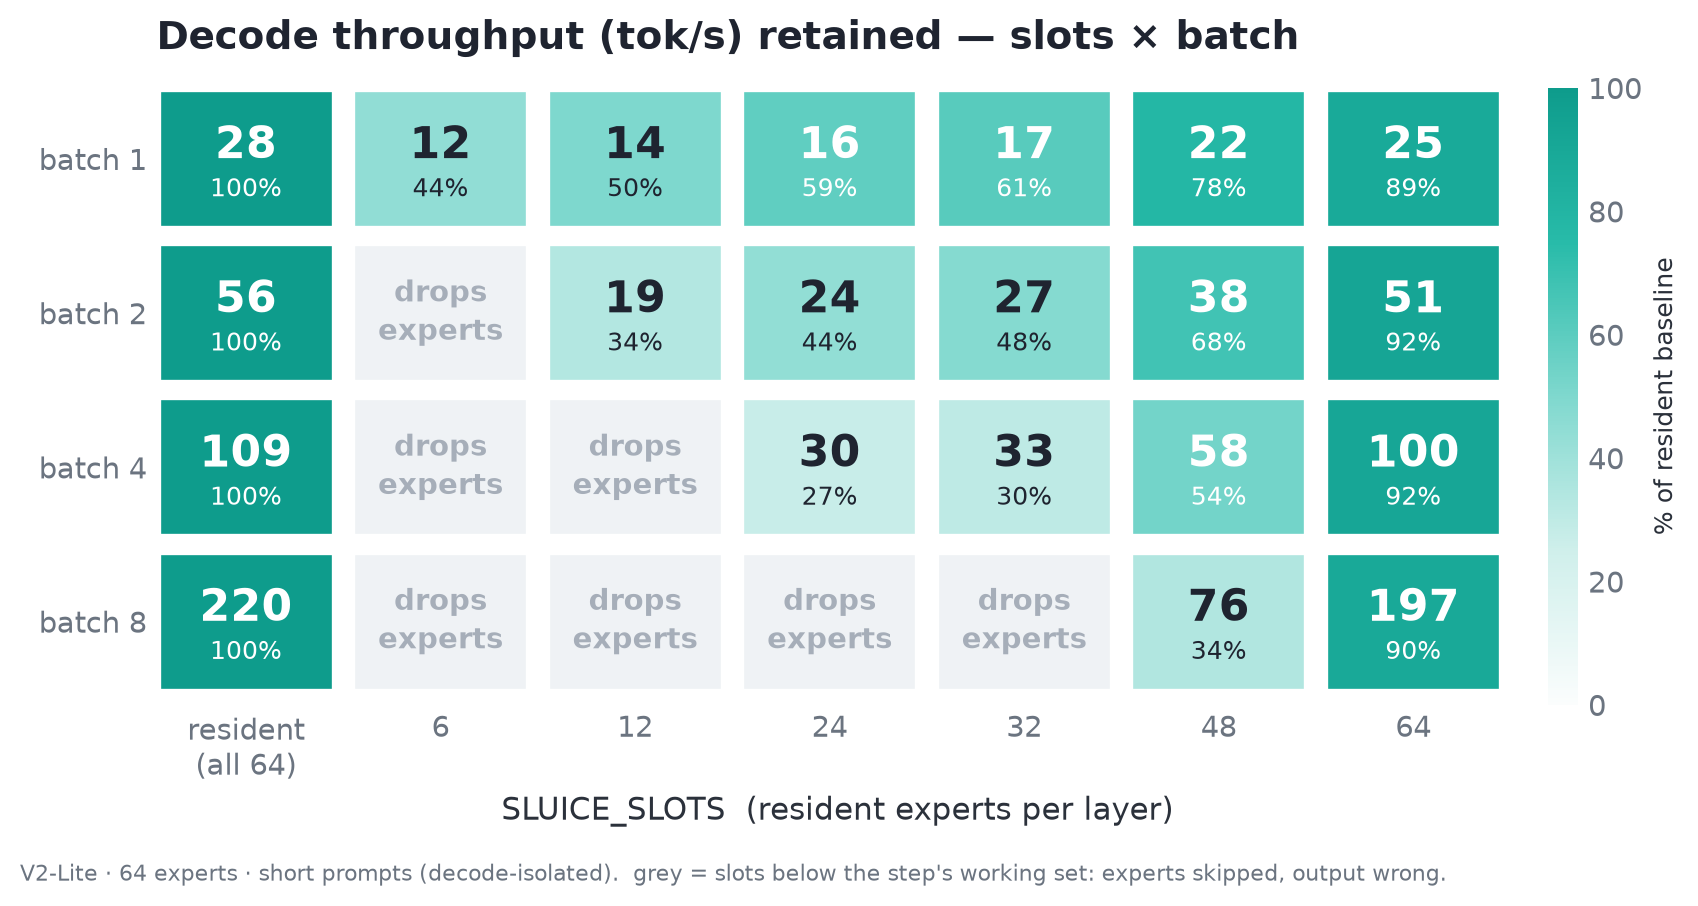
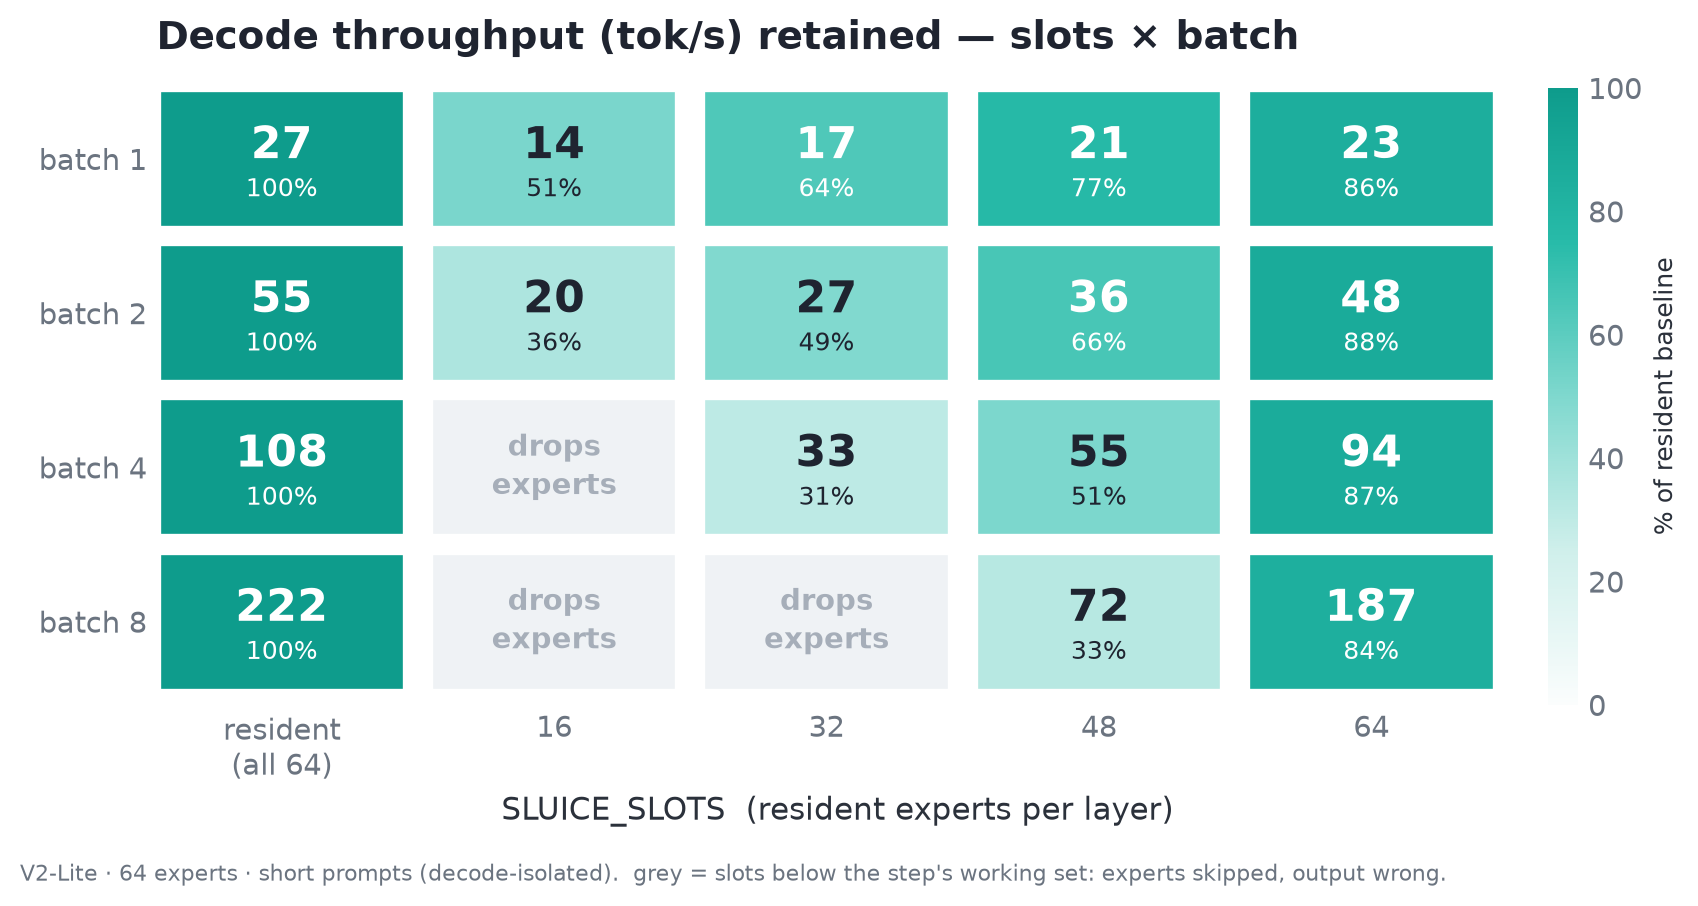
Charts: regenerate from CSVs; add MTP and KV-vs-slots figures from campaign data
Regenerate every chart from the committed results CSVs (three measured
PNGs pick up rendering-environment drift; the rest reproduce
byte-identically; the prefill chart reads the _chunks CSV). Add the two
figures the July campaign was missing:

- chart-mtp: single-stream TPOT with and without MTP k=1 on both
  families (+67% / +58% tok/s, annotations read from the campaign CSV so
  chart and docs cite identical numbers).
- chart-kv-vs-slots: the same-VRAM slots-vs-KV reallocation on V4-Pro
  (+22% at c16) and GLM-4.5-Air (2.7x, resident reference alongside).

Both read results/campaign_202607.csv (rendered by default when
present); embedded in README and docs/EVALUATION.md next to the numbers
they illustrate. Palette pair CVD-validated; every bar direct-labeled.

diff --git a/assets/make_charts.py b/assets/make_charts.py
@@ -229,6 +229,128 @@ def throughput_chart(path):
     print("wrote", path)
 
 
+def _campaign_rows(csv_path):
+    """Index results/campaign_202607.csv rows by (experiment, bench)."""
+    import csv as _csv
+
+    with open(csv_path) as f:
+        return {(r["experiment"], r["bench"]): r for r in _csv.DictReader(f)}
+
+
+def mtp_chart(csv_path, path):
+    """MTP speculative decoding x offload, single stream (c1, ShareGPT,
+    output 128): offloaded decode is PCIe-bound, so verifying draft tokens is
+    nearly free — TPOT drops ~2x on both families. Reads the July-2026
+    campaign CSV (results_mtp2 = V4-Pro 8xH100 EP=8 slots=16;
+    results_glm51mtp = GLM-5.1-FP8 4xH100 EP=4 slots=12)."""
+    rows = _campaign_rows(csv_path)
+    fams = [
+        ("DeepSeek-V4-Pro\n8×H100 · slots=16", "results_mtp2",
+         "accept 1.6–1.7"),
+        ("GLM-5.1-FP8 (705 GiB)\n4×H100 · slots=12", "results_glm51mtp",
+         "accept 1.60"),
+    ]
+    plain = [float(rows[(e, "bench_plain_c1")]["mean_tpot_ms"]) for _, e, _ in fams]
+    mtp = [float(rows[(e, "bench_mtp_c1")]["mean_tpot_ms"]) for _, e, _ in fams]
+    tp_gain = [
+        float(rows[(e, "bench_mtp_c1")]["output_tok_s"])
+        / float(rows[(e, "bench_plain_c1")]["output_tok_s"]) - 1
+        for _, e, _ in fams
+    ]
+
+    fig, ax = plt.subplots(figsize=(8.2, 4.4), dpi=200)
+    x = range(len(fams))
+    w = 0.34
+    ax.bar([i - w / 2 for i in x], plain, w, color=INDIGO, label="offloaded")
+    ax.bar([i + w / 2 for i in x], mtp, w, color=TEAL, label="+ MTP (k=1)")
+    for i in x:
+        ax.text(i - w / 2, plain[i] + 4, f"{plain[i]:.0f}", ha="center",
+                fontsize=10, color=INK)
+        ax.text(i + w / 2, mtp[i] + 4, f"{mtp[i]:.0f}", ha="center",
+                fontsize=10, color=INK)
+        ax.annotate(f"TPOT −{(1 - mtp[i] / plain[i]) * 100:.0f}%",
+                    (i + w / 2, mtp[i] / 2), ha="center", color="white",
+                    fontsize=10, fontweight="bold")
+        ax.annotate(f"+{tp_gain[i] * 100:.0f}% tok/s",
+                    (i, max(plain[i], mtp[i]) + 26),
+                    ha="center", color=GREEN, fontsize=11, fontweight="bold")
+    ax.set_xticks(list(x))
+    ax.set_xticklabels([f for f, _, _ in fams], fontsize=10)
+    ax.set_ylabel("mean TPOT (ms/token) — lower is better", fontsize=10)
+    ax.set_ylim(0, max(plain) * 1.28)
+    ax.legend(frameon=False, fontsize=10, loc="upper left")
+    for s in ("top", "right"):
+        ax.spines[s].set_visible(False)
+    ax.set_title("Speculative decoding is nearly free on offloaded decode "
+                 "(single stream, ShareGPT)", fontsize=12.5, color=INK)
+    fig.text(0.5, -0.03, "PCIe-bound steps verify draft tokens at no transfer "
+             "cost · MTP module from each checkpoint · k=1 · greedy-equivalent "
+             "output", ha="center", fontsize=7.5, color="#7A828F")
+    fig.tight_layout()
+    fig.savefig(path, bbox_inches="tight", facecolor="white")
+    print("wrote", path)
+
+
+def kv_slots_chart(csv_path, path):
+    """The KV-vs-slots rule, measured on two families at c16 (1024 in / 128
+    out): KV beyond the workload's concurrent tokens is dead VRAM — respend it
+    on expert slots. Reads the campaign CSV (results_r6 = V4-Pro same-pod
+    sweep; results_glmserve = GLM-4.5-Air bf16 TP=4/EP=4)."""
+    rows = _campaign_rows(csv_path)
+    v4 = [("16 @ .55", "bench_s16"), ("22 @ .40", "bench_s22u0.40"),
+          ("25 @ .30", "bench_s25u0.30")]
+    glm = [("12 @ .50", "bench_s12"), ("20 @ .35", "bench_s20")]
+    v4v = [float(rows[("results_r6", b)]["output_tok_s"]) for _, b in v4]
+    glmv = [float(rows[("results_glmserve", b)]["output_tok_s"]) for _, b in glm]
+    glm_res = float(rows[("results_glmserve", "bench_resident")]["output_tok_s"])
+
+    fig, (axL, axR) = plt.subplots(1, 2, figsize=(9.4, 4.3), dpi=200,
+                                   gridspec_kw={"width_ratios": [1.15, 1]})
+    axL.bar(range(len(v4)), v4v, 0.58, color=TEAL)
+    for i, v in enumerate(v4v):
+        axL.text(i, v + 1.4, f"{v:.0f}", ha="center", fontsize=10, color=INK)
+    axL.annotate(f"+{(v4v[-1] / v4v[0] - 1) * 100:.0f}%", (len(v4) - 1, v4v[-1] + 8),
+                 ha="center", color=GREEN, fontsize=11, fontweight="bold")
+    axL.set_xticks(range(len(v4)))
+    axL.set_xticklabels([c for c, _ in v4], fontsize=10)
+    axL.set_title("V4-Pro (FP8) · 8×H100 · EP=8", fontsize=11,
+                  fontweight="bold", color=INK)
+    axL.set_ylim(0, max(v4v) * 1.3)
+    axL.set_ylabel("output tok/s @ c16", fontsize=10)
+    axL.set_xlabel("slots @ gpu_memory_utilization", fontsize=9.5)
+
+    xs = range(len(glm) + 1)
+    axR.bar([0, 1], glmv, 0.58, color=TEAL)
+    axR.bar([2], [glm_res], 0.58, color=GREY)
+    for i, v in enumerate(glmv):
+        axR.text(i, v + 5, f"{v:.0f}", ha="center", fontsize=10, color=INK)
+    axR.text(2, glm_res + 5, f"{glm_res:.0f}", ha="center", fontsize=10,
+             color=MUTED)
+    axR.annotate(f"{glmv[1] / glmv[0]:.1f}×", (1, glmv[1] + 26), ha="center",
+                 color=GREEN, fontsize=12, fontweight="bold")
+    axR.set_xticks(list(xs))
+    axR.set_xticklabels([c for c, _ in glm] + ["resident\n(fits anyway)"],
+                        fontsize=10)
+    axR.set_title("GLM-4.5-Air (BF16) · 4×H100 · EP=4", fontsize=11,
+                  fontweight="bold", color=INK)
+    axR.set_ylim(0, glm_res * 1.18)
+    axR.set_xlabel("slots @ gpu_memory_utilization", fontsize=9.5)
+
+    for ax in (axL, axR):
+        for s in ("top", "right"):
+            ax.spines[s].set_visible(False)
+    fig.suptitle("Spend surplus KV on expert slots — same VRAM, same workload "
+                 "(c16, 1024 in / 128 out)", fontsize=12.5, fontweight="bold",
+                 color=INK)
+    fig.text(0.5, -0.03, "rule: size KV ≈ 1.5–2× peak concurrent tokens, give "
+             "the rest to SLUICE_SLOTS · needs the residency knee in reach "
+             "(see docs/EVALUATION.md)", ha="center", fontsize=7.5,
+             color="#7A828F")
+    fig.tight_layout(rect=[0, 0, 1, 0.95])
+    fig.savefig(path, bbox_inches="tight", facecolor="white")
+    print("wrote", path)
+
+
 def slots_sweep_chart(csv_path, path):
     """Plot the measured SLUICE_SLOTS sweep produced by examples/bench_slots.py.
 
@@ -750,6 +872,11 @@ if __name__ == "__main__":
     parser.add_argument("--prefill-csv", default=None,
                         help="V4-Pro prefill CSV (length,ttft_s,ws_per_rank,slots); "
                              "renders the prefill TTFT + working-set chart")
+    parser.add_argument("--campaign-csv",
+                        default=os.path.join(here, "..", "results",
+                                             "campaign_202607.csv"),
+                        help="July-2026 campaign CSV; renders the MTP and "
+                             "KV-vs-slots charts when present")
     cli = parser.parse_args()
 
     # Measured charts (CSV-driven, from real runs) live in their own subdirectory,
@@ -782,3 +909,7 @@ if __name__ == "__main__":
                         os.path.join(measured, "chart-v4-matrix.png"))
     if cli.prefill_csv:
         prefill_chart(cli.prefill_csv, os.path.join(measured, "chart-prefill.png"))
+    if cli.campaign_csv and os.path.exists(cli.campaign_csv):
+        mtp_chart(cli.campaign_csv, os.path.join(measured, "chart-mtp.png"))
+        kv_slots_chart(cli.campaign_csv,
+                       os.path.join(measured, "chart-kv-vs-slots.png"))

diff --git a/README.md b/README.md
@@ -42,8 +42,11 @@ and lets V4-Pro serve at all, where it otherwise OOMs.
 Offloaded decode is PCIe-bound, so speculative decoding verifies extra tokens
 for free: with the checkpoint's own **MTP** module (`deepseek_mtp`, k=1),
 single-stream decode goes **4.9 → 8.2 tok/s (+67%, TPOT 168 → 106 ms)** on
-natural text, +48% at concurrency 4 (see
+natural text, +48% at concurrency 4 — and the physics replicates on GLM-5.1
+(+58%; see
 [EVALUATION.md](docs/EVALUATION.md#speculative-decoding-mtp--offload--the-latency-regime-lever)).
+
+<p align="center"><img src="assets/measured/chart-mtp.png" alt="MTP nearly halves single-stream TPOT on both families" width="700"></p>
 
 <p align="center"><img src="assets/chart-throughput.png" alt="Decode throughput: ~14% overhead on V2-Lite; V4-Pro runs only with Sluice" width="700"></p>
 

diff --git a/docs/EVALUATION.md b/docs/EVALUATION.md
@@ -252,6 +252,8 @@ Same-pod sweep (V4-Pro EP=8, c16, in1024/out128, 4096 ctx, 80 GiB):
 | slots=22 @ util 0.40 | 39.2k | 62.9 | 212 ms |
 | slots=25 @ util 0.30 | 23.6k | **67.0** | **199 ms** |
 
+<p align="center"><img src="../assets/measured/chart-kv-vs-slots.png" alt="Same VRAM, same workload: reallocating KV headroom to expert slots" width="720"></p>
+
 Rule: size utilization so KV ≈ 1.5–2× the peak concurrent-token demand
 (`max_concurrency × (input+output)`), then give every remaining GiB to
 `SLUICE_SLOTS`. slots=28 was infeasible here (KV would fall below the c16
